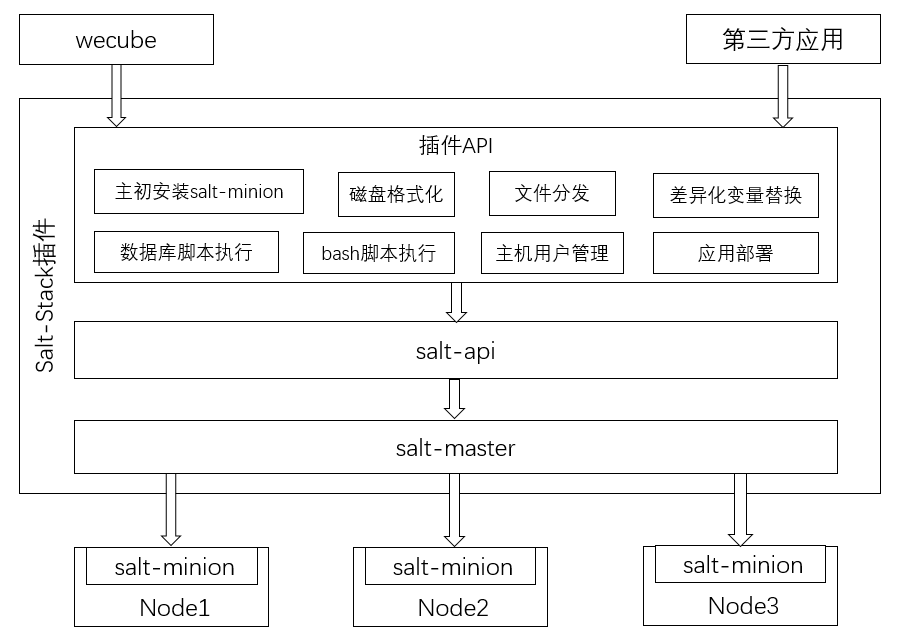
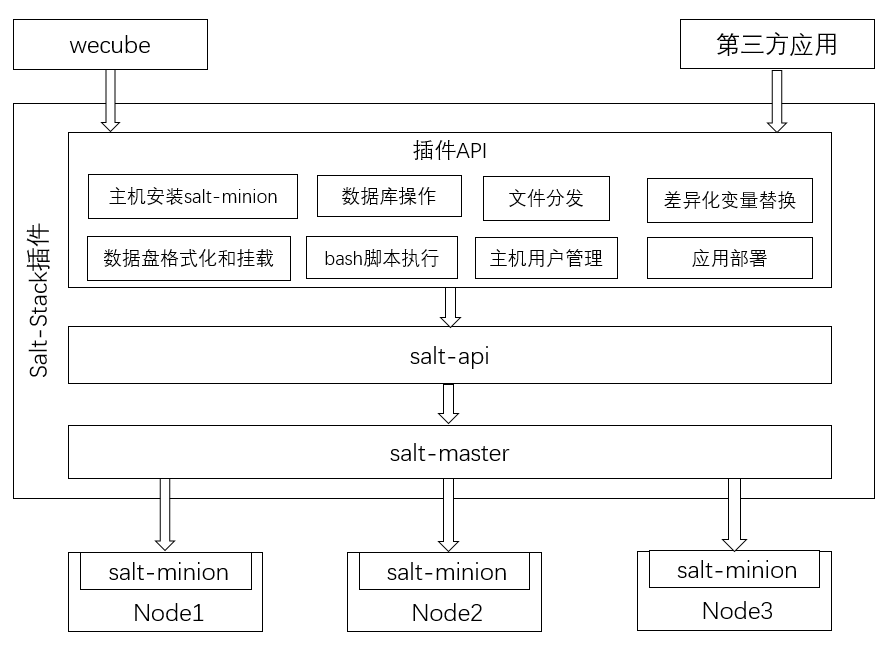
34_update_doc

Changed region(s): [[0.0, 0.0, 0.9978, 0.9828], [0.9675, 0.0298, 0.9978, 0.0893], [0.0, 0.0298, 0.0302, 0.0893]]

diff --git a/README.md b/README.md
@@ -5,15 +5,15 @@
 中文 / [English](README_EN.md)
 
 ## 简介
-SaltStack插件包含salt-master,salt-api和httpd等服务，基于这些服务封装了一层对主机进行系统管理和应用管理的API。用户可通过该插件提供的API执行如下操作:
+SaltStack插件包含salt-master,salt-api和httpd等服务，基于这些服务封装了一层对主机进行系统管理和应用部署的API。用户可通过该插件提供的API执行如下操作:
 - salt-minion安装:主机安装salt-minion后,后续所有对该主机的操作都可从salt-master发起
-- 文件分发：从S3对象存储中下载文件并部署到指定的目录，如果是压缩包还提供解压能力
-- 变量替换操作：将安装包指定目录下的配置文件进行变量替换，并重新生成替换后的安装包放到S3对象存储上。
-- bash脚本操作：可指定用户在指定主机上执行主机本地或者S3对象存储上的bash脚本。
+- 文件分发：从S3对象存储中下载文件并部署到指定主机的指定目录，如果是压缩包还提供解压能力
+- 变量替换操作：将安装包指定目录下的配置文件进行变量替换，并重新生成替换后的安装包放到S3对象存储
+- 脚本执行：可指定用户在指定主机上执行主机本地或者S3对象存储上的bash和python脚本。
 - 用户管理操作：可在指定主机上新增用户、删除用户；
 - 数据库操作：在指定的mysql数据库实例上执行S3对象存储上的sql文件
-- 数据盘操作：检查指定主机是否有未挂在的数据库盘；可对指定主机上的数据库盘进行格式化并设置自动挂在到某个主机目录
-- 部署操作：可指定主机下发S3上对象存储上的应用安装包，并执行指定的脚本用来启动或者停止应用
+- 数据盘操作：检查指定主机是否有未格式化的数据盘；可对指定主机上的数据盘进行格式化并设置自动挂在到某个主机目录
+- 应用部署：可指定主机下发S3上对象存储上的应用安装包，并执行安装包内的指定脚本用来启动或者停止应用
 
 
 <img src="./docs/images/architectrue.png" />
